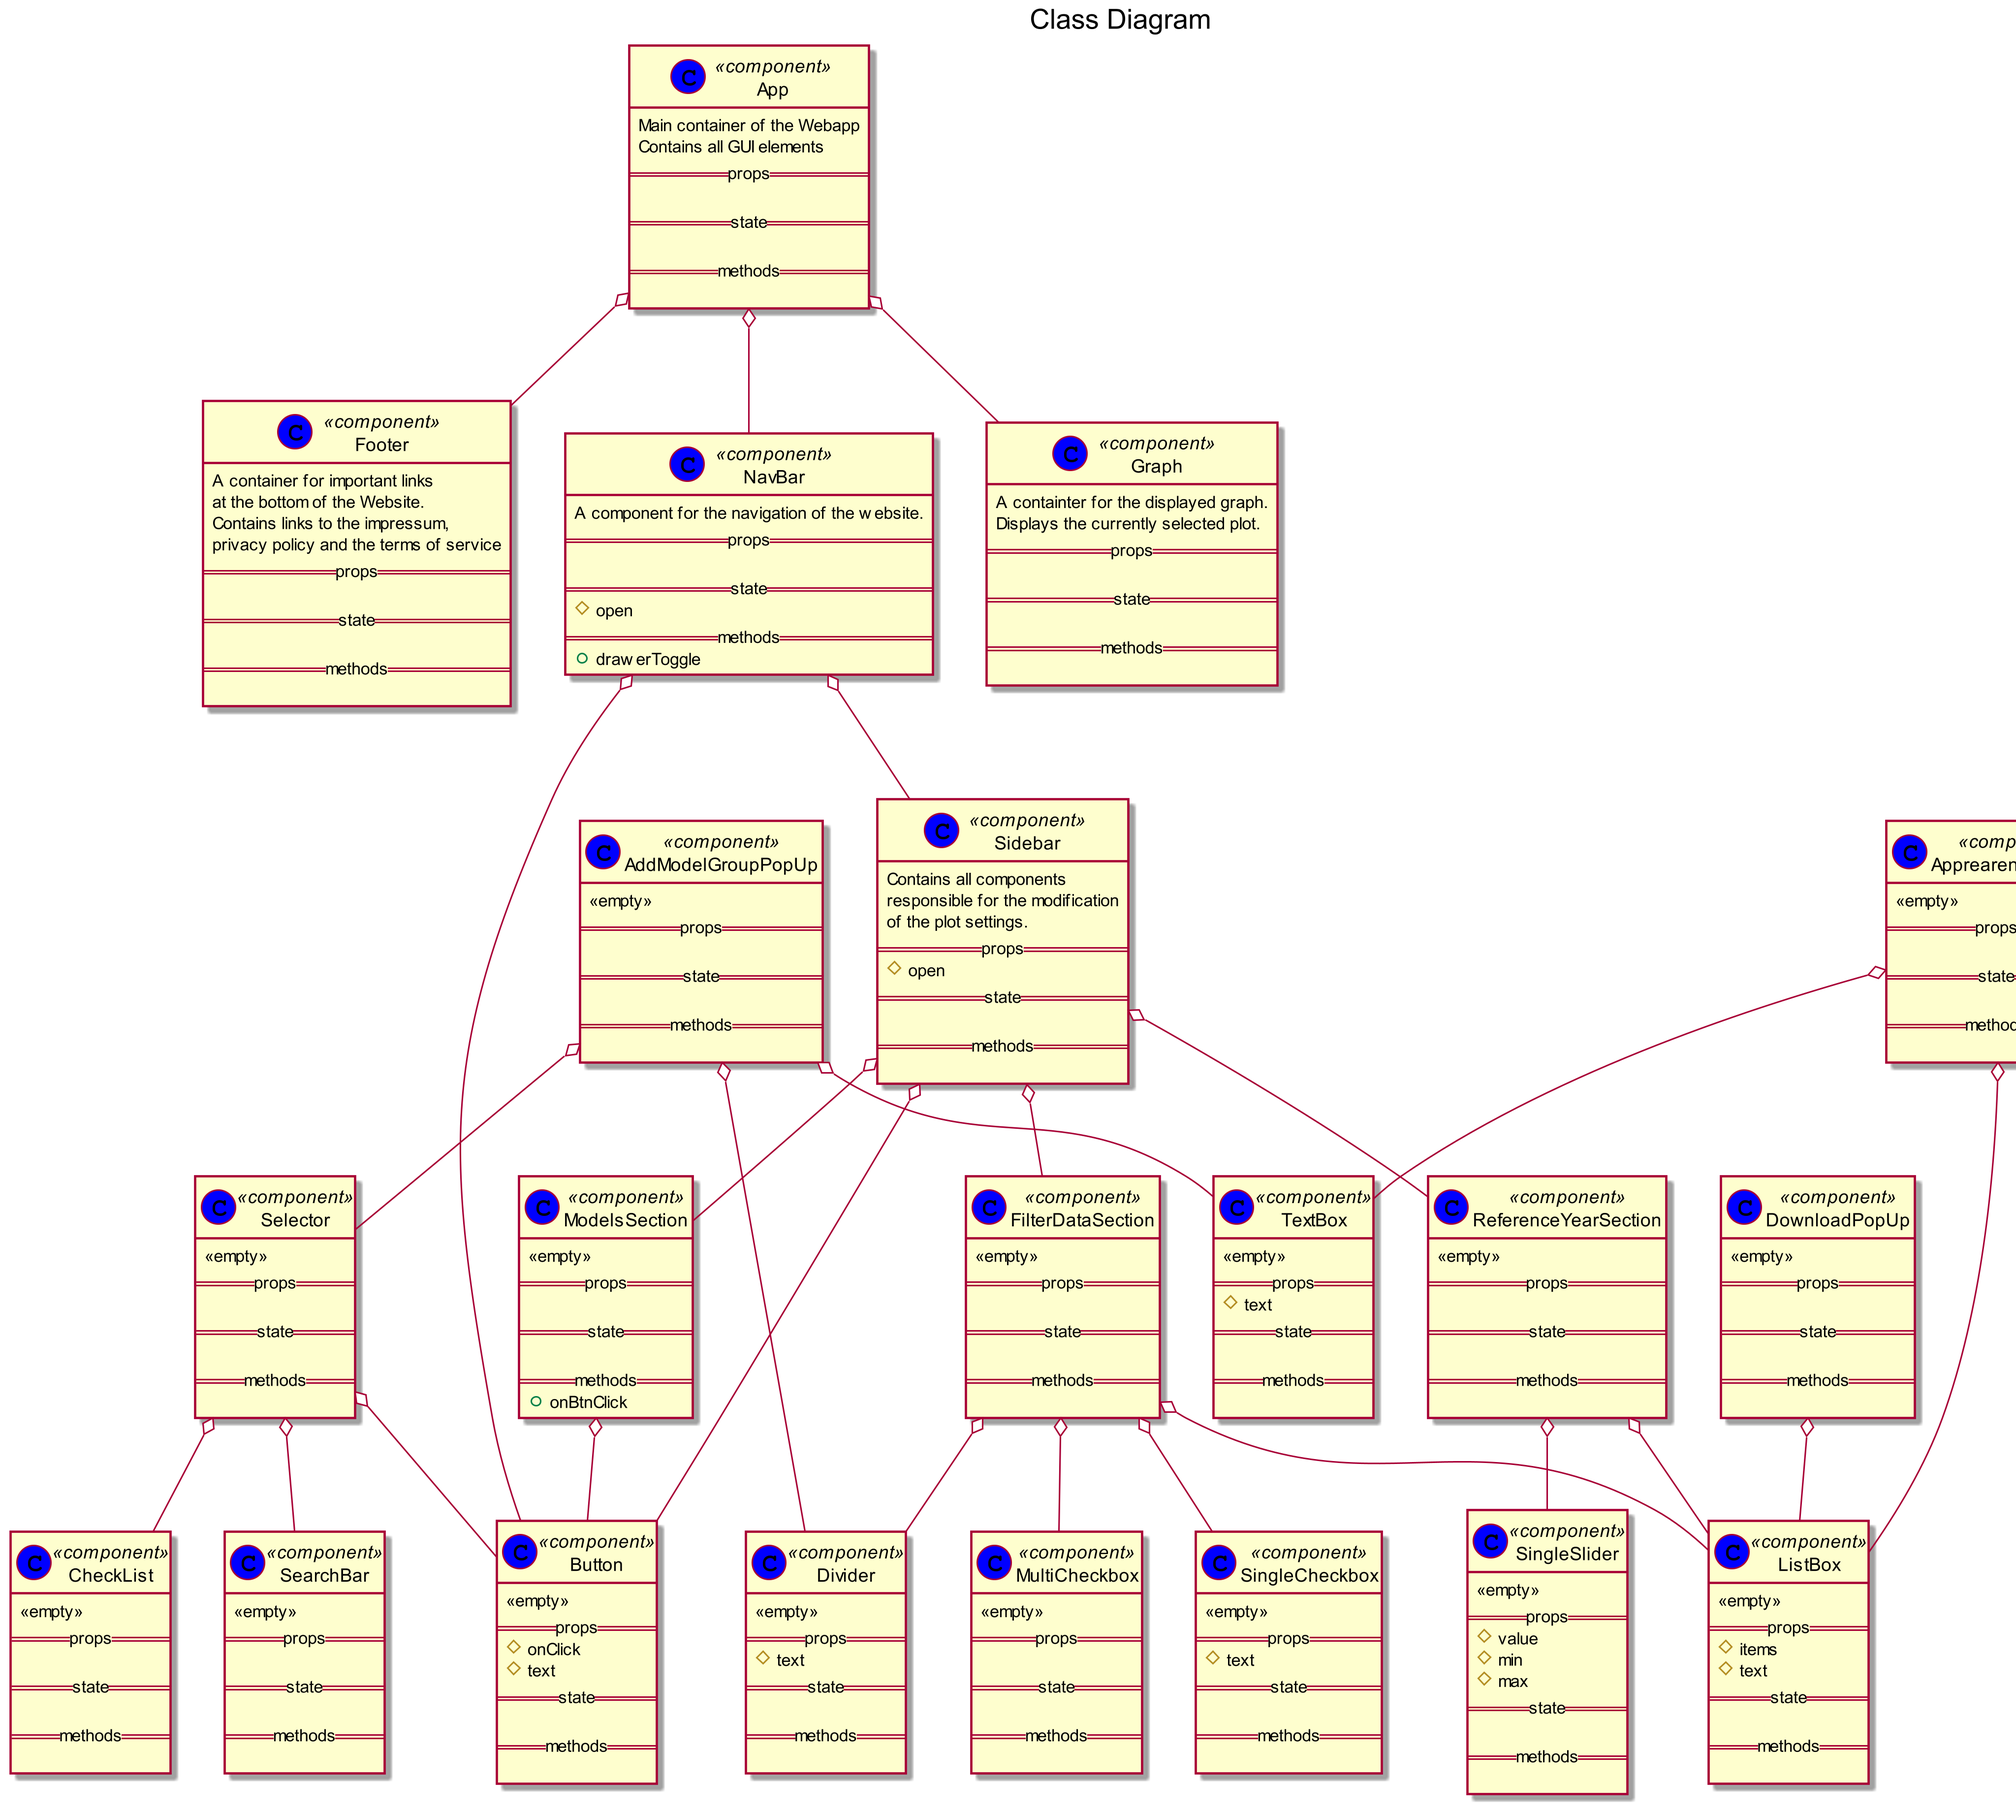
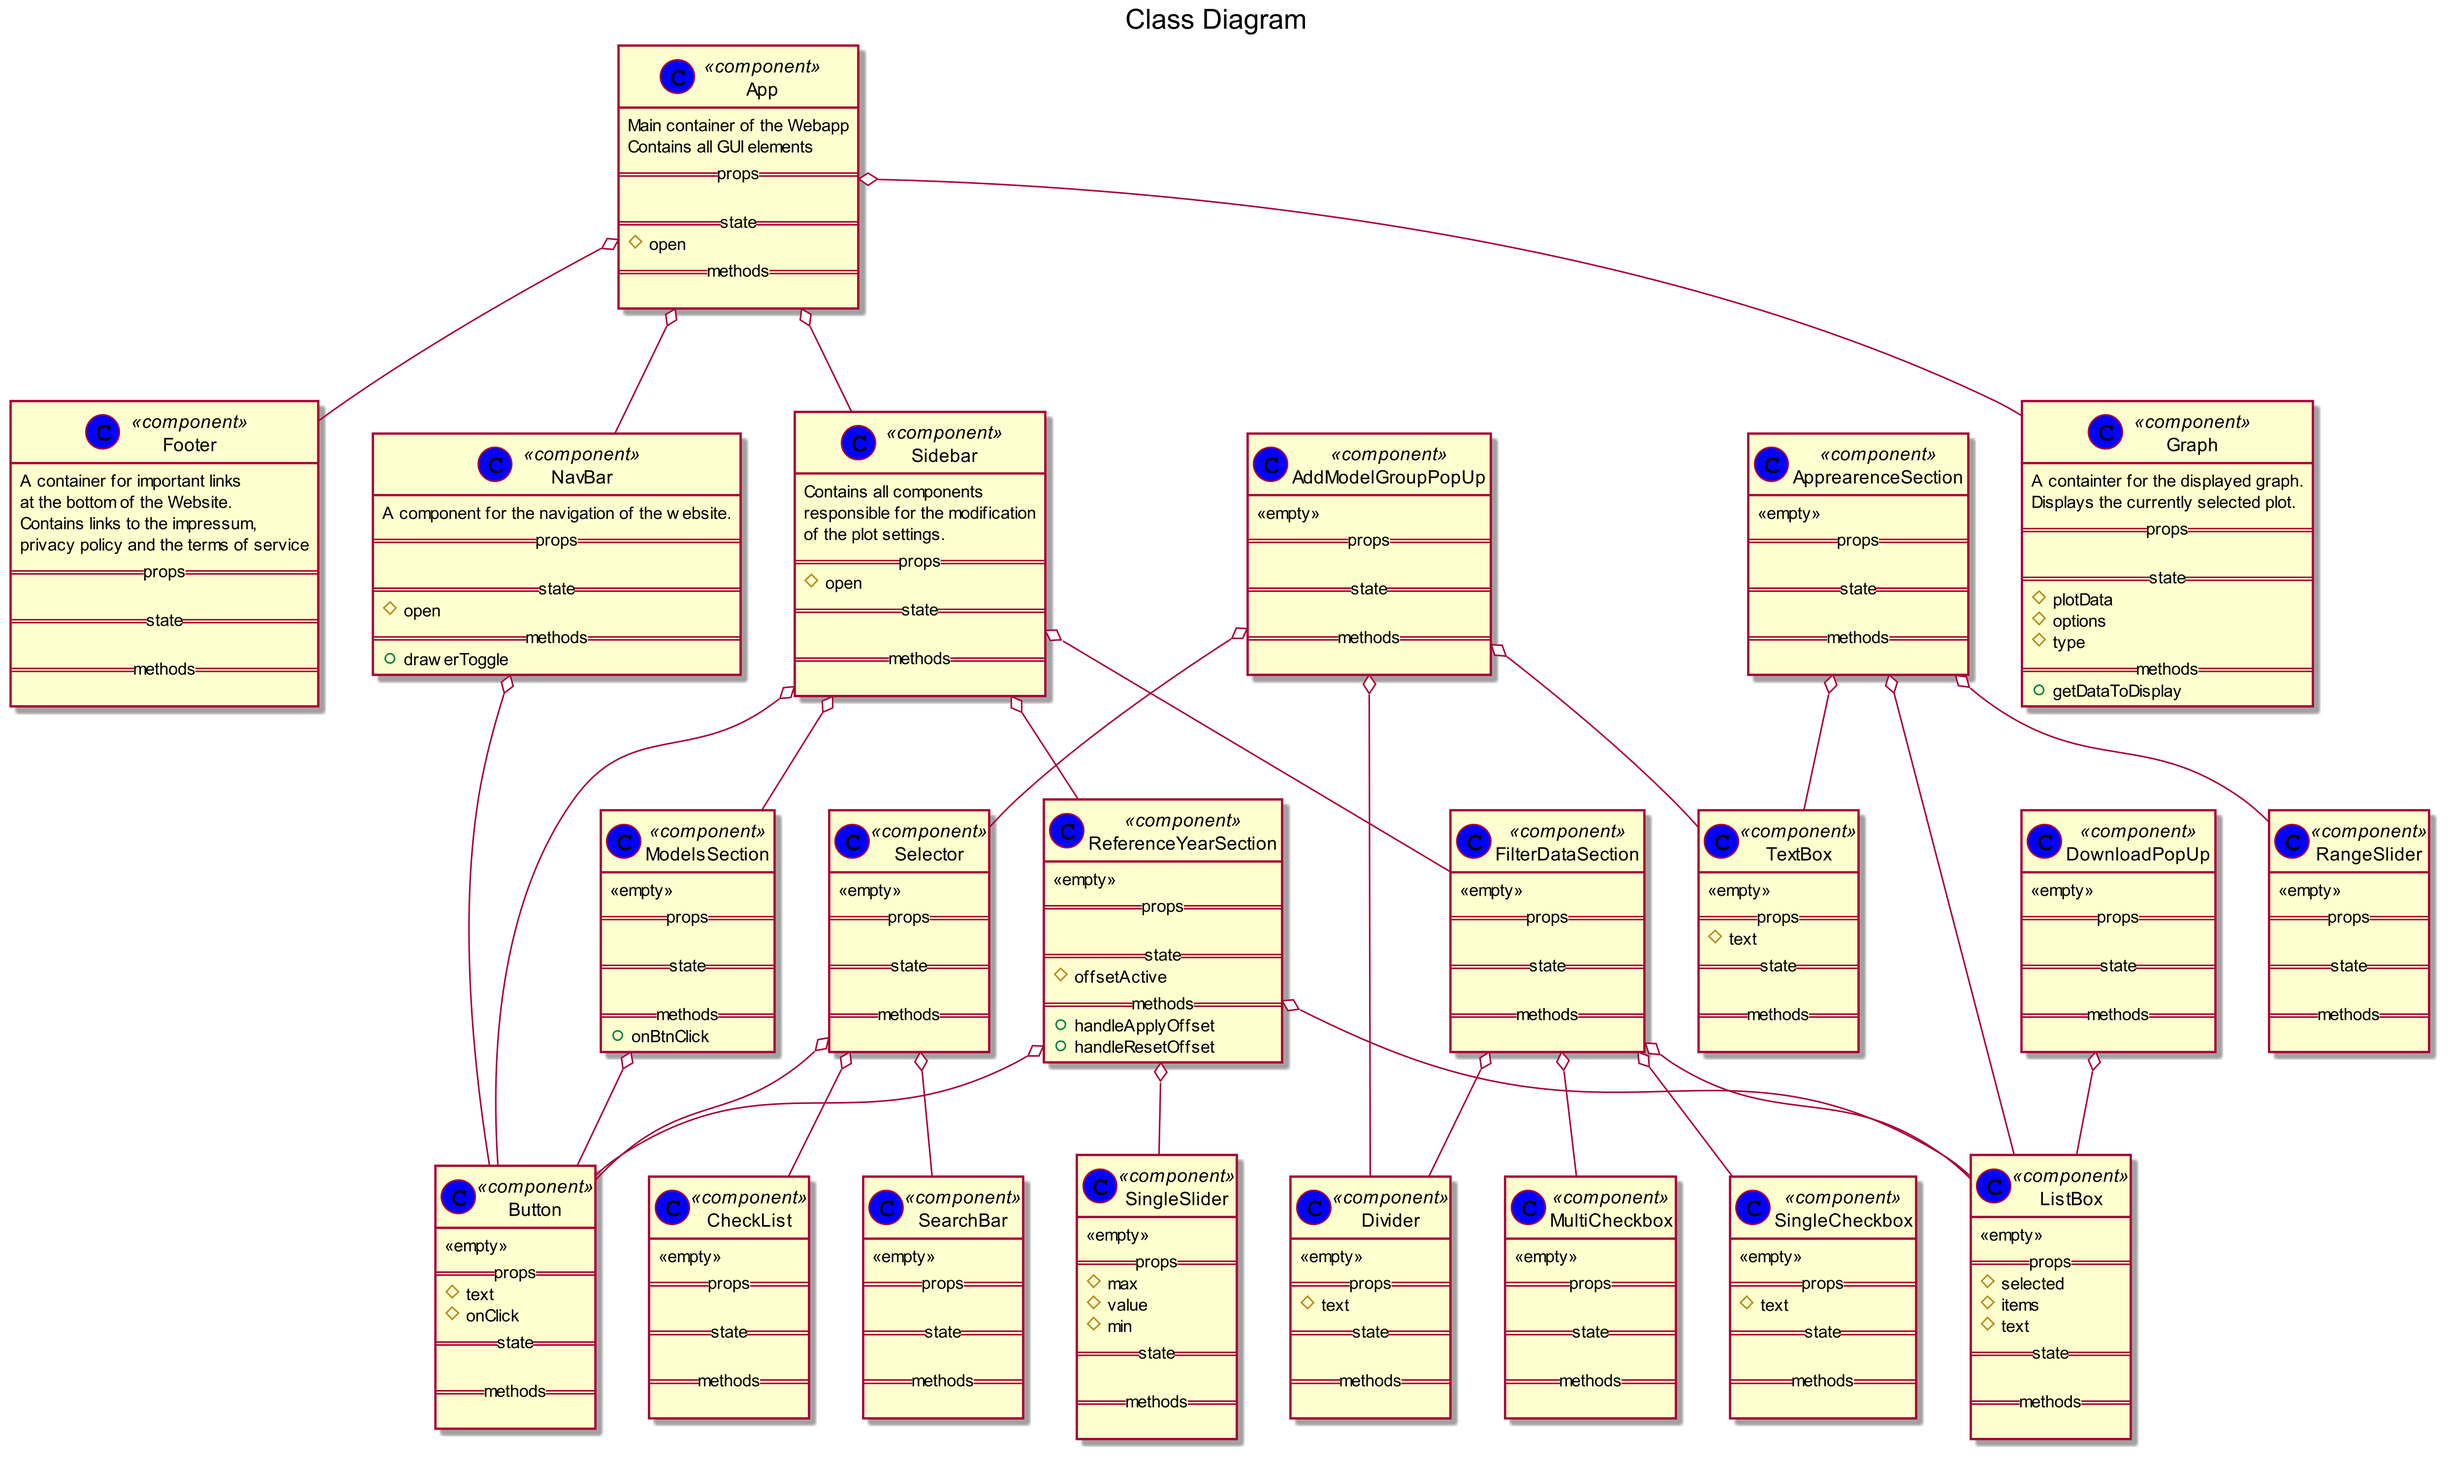
Added state and props to some components

diff --git a/DesignPhase/example-code/src/views/landingPage/Sidebar/SectionComponents/ReferenceYearSection/ReferenceYearSection.js b/DesignPhase/example-code/src/views/landingPage/Sidebar/SectionComponents/ReferenceYearSection/ReferenceYearSection.js
@@ -1,10 +1,26 @@
 import * as React from 'react';
+import Button from '../inputs/Button';
 import ListBox from '../inputs/ListBox';
 import SingleSlider from '../inputs/Slider/SingleSlider';
 
 export default function ReferenceYearSection() {
+    const [offsetActive, setOffsetActive] = React.useState(false);
+    const [referenceYear, setReferenceYear] = useState(2021);
+    const [referenceModel, setReferenceModel] = useState("TODO");
+
+    const handleApplyOffset = () => {
+        setOffsetActive(true);
+        // Apply offset with arithmetic class
+        // Save data to Redux
+    }
+    const handleResetOffset = () => {
+        setOffsetActive(false);
+    }
+
     return (<div>
-        <ListBox text="Location" items={["T", "O", "D", "O"]}/>
-        <SingleSlider min={1970} max={2100} value={2021} />
+        <ListBox text="Reference Model" items={["T", "O", "D", "O"]} selected={referenceModel} />
+        <SingleSlider min={1970} max={2100} value={referenceYear} />
+        <Button text="Apply Offset" onClick={handleApplyOffset} />
+        <Button text="Reset Offset" onClick={handleResetOffset} />
     </div>);
 }

diff --git a/DesignPhase/example-code/src/views/landingPage/Graph/Graph.js b/DesignPhase/example-code/src/views/landingPage/Graph/Graph.js
@@ -5,6 +5,14 @@ import * as React from 'react';
  * Displays the currently selected plot.
  */
 export default function Graph() {
+    const [plotData, setPlotData] = React.useState({});
+    const [options, setOptions] = React.useState({});
+    const [type, setType] = React.useState("line");
+
+    const getDataToDisplay = () => {
+        // Gets the currently selected models which should be displayed
+    }
+
     return (<div>
         {/* Graph displayed with ApexCharts goes here */}
     </div>);

diff --git a/DesignPhase/example-code/src/views/landingPage/Sidebar/SectionComponents/inputs/ListBox.js b/DesignPhase/example-code/src/views/landingPage/Sidebar/SectionComponents/inputs/ListBox.js
@@ -1,7 +1,8 @@
 import * as React from 'react';
 
 export default function ListBox(props) {
-    const options = props.items.map((item) => (<option value={item}>{item}</option>))
+    const options = props.items.map((item) => (<option value={item}>{item}</option>));
+    props.selected;
     return (<div>
     <select name={props.text}>
         {options}

diff --git a/DesignPhase/example-code/src/App.js b/DesignPhase/example-code/src/App.js
@@ -8,10 +8,12 @@ import Graph from './views/landingPage/Graph/Graph';
  * Contains all GUI elements
  */
 export default function App() {
+    const [open, setOpen] = React.useState(false);
 
     return (<div>
         <NavBar />
         <Graph />
         <Footer />
+        <Sidebar open={open} />
     </div>);
 }

diff --git a/DesignPhase/example-code/src/components/NavBar.js b/DesignPhase/example-code/src/components/NavBar.js
@@ -14,7 +14,6 @@ export default function NavBar() {
     }
     
     return (<div>
-        <Sidebar open={open} />
         <Button text="Edit Plot" onClick={drawerToggle}/>
     </div>);
 }
